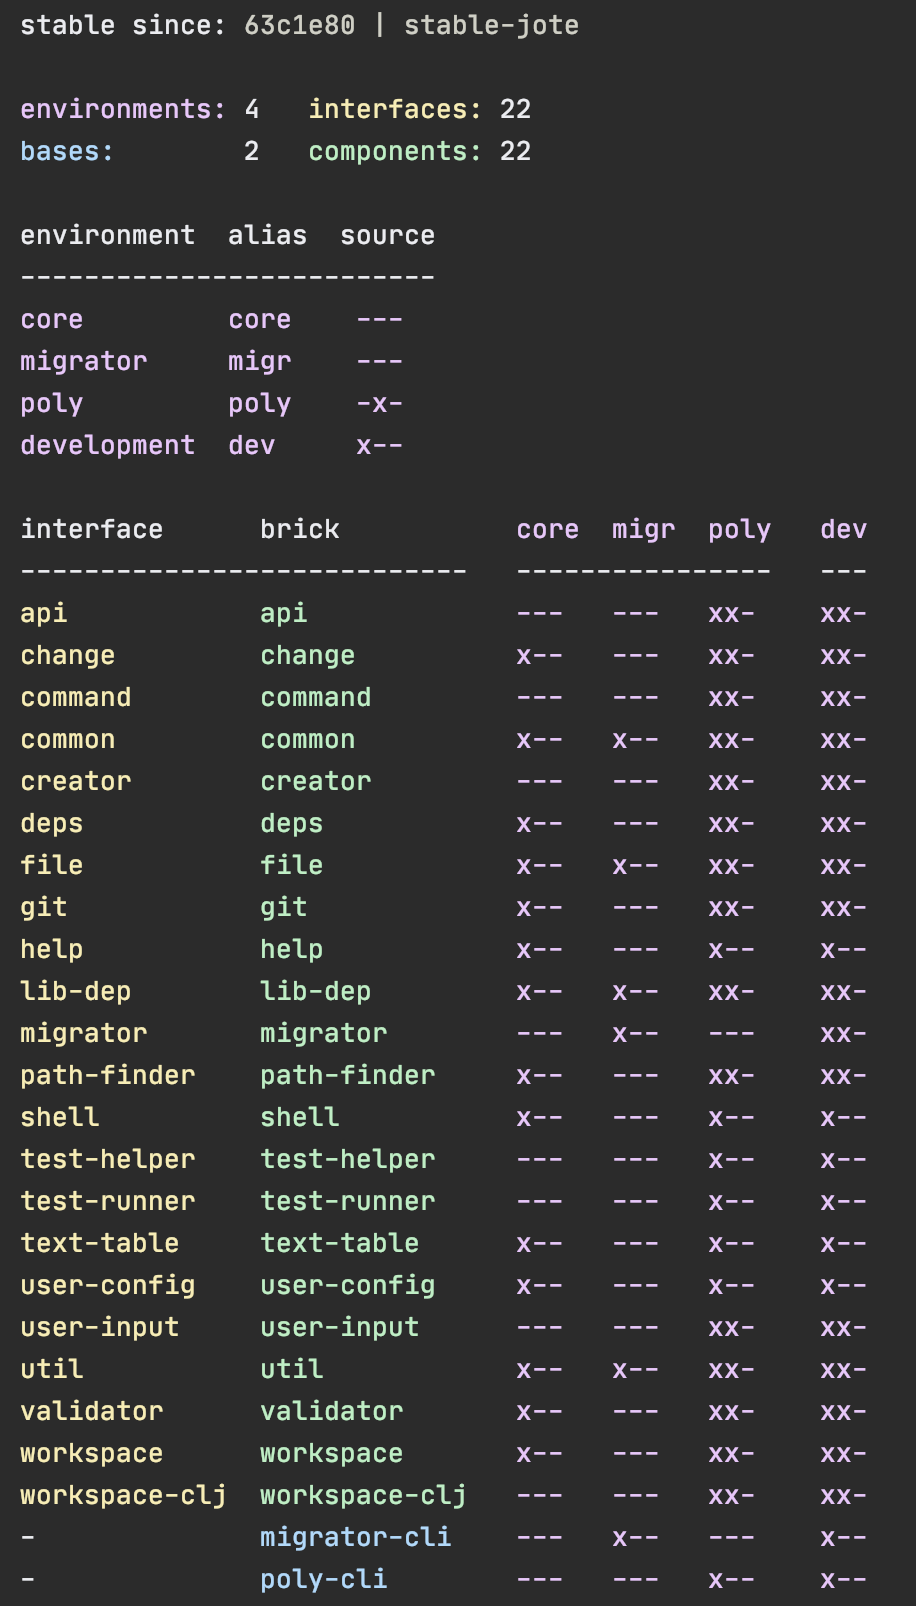
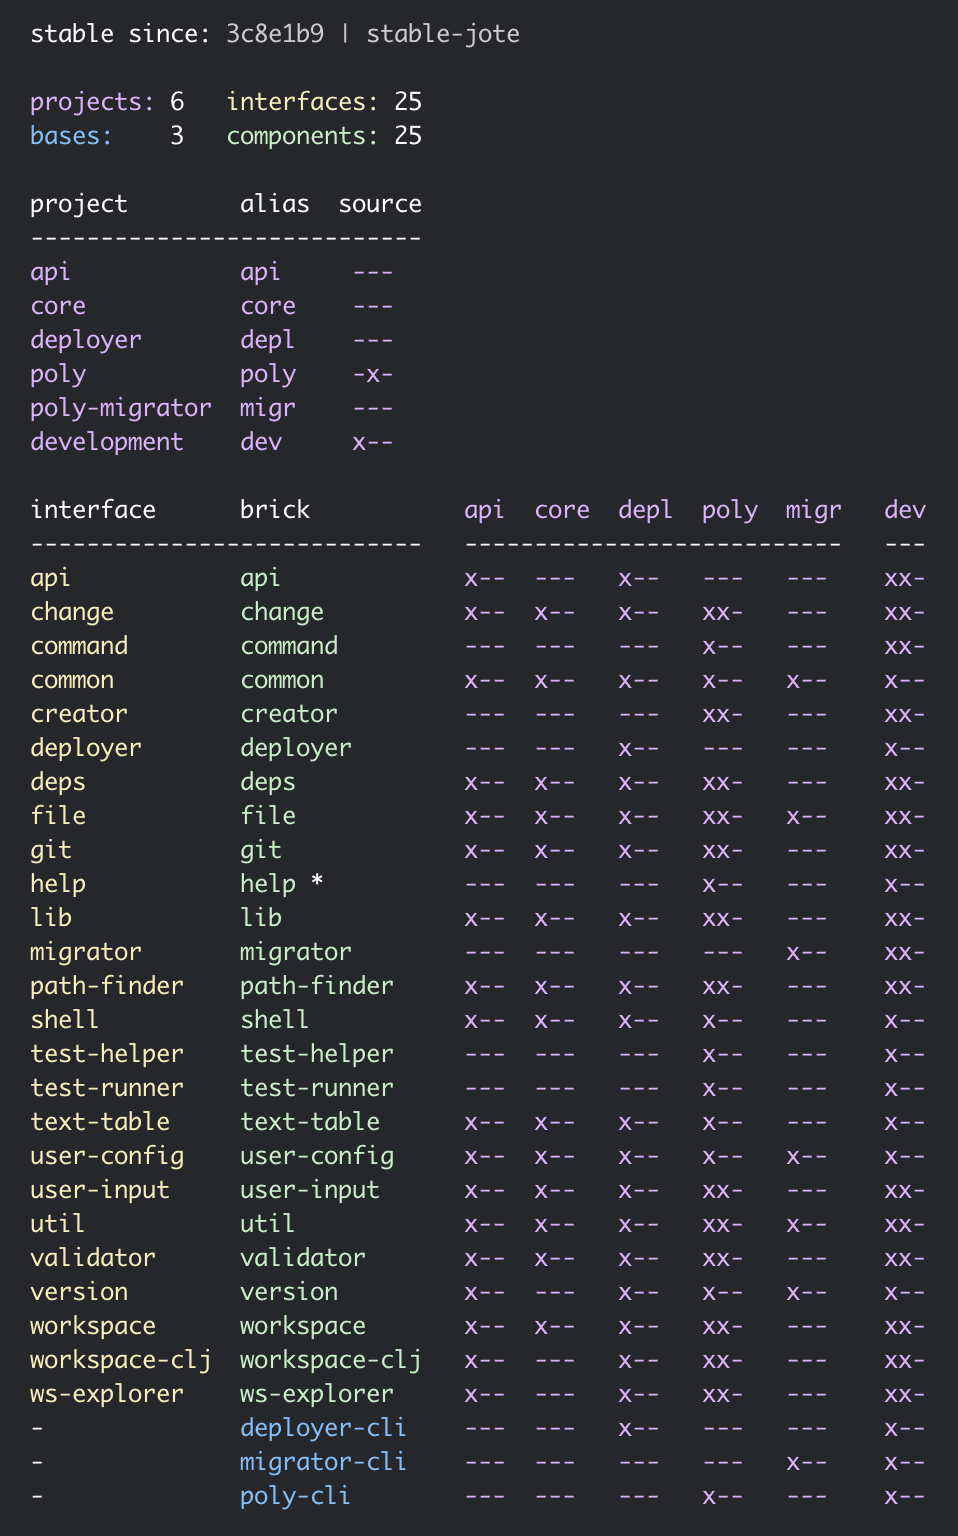
Switch from 'environment' to 'project'.

diff --git a/migrate/migrate.md b/migrate/migrate.md
@@ -1,47 +1,44 @@
 # <img src="../images/logo.png" width="50%" alt="Polylith" id="logo">
 
 If you are using the old Leiningen based tool, we recommend you to migrate to the 
-[new tool](https://github.com/tengstrand/polylith) that is based on 
-tools.deps by following the instructions further down here.
+[new tool](https://github.com/polyfy/polylith) that is based on [tools.deps](https://github.com/clojure/tools.deps.alpha) 
+by following the instructions further down here.
 
 Before we start, it may be interesting to get an idea of why you should migrate to the new tool:
 
-- The new tool is based on [tools.deps](https://github.com/clojure/tools.deps.alpha) which is both flexibility, powerful,
-  and is supported by the company that created  Clojure. Tools.deps is also a really good fit for the Lego like way of working with code in Polylith.
-- The symbolic links are gone, which means less complexity.
-- Microsoft Windows is supported out of the box.
+- The new tool is based on [tools.deps](https://github.com/clojure/tools.deps.alpha) which is flexibility, powerful,
+  and supported by Cognitect.
+  Tools.deps is also a really good fit for the Lego-like way of working with code in Polylith.
+- The symbolic links are gone, which means less complexity and that Emacs/CIDER and Windows now works out of the box.
+- A more streamlined naming. Systems, services and development environments are now all handled as _projects_.
 - You are less dependent on tool support. Operations such as moving, renaming and deleting
-  environments, components and bases can easily be done from your favourite editor/IDE and there is
+  projects, components and bases can easily be done from your favourite editor/IDE and there is
   no need for the `add`, `remove` and `delete` commands. 
-- The empty workspace interfaces are gone. They are instead implicitly declared by the components themselves
-  which is nicer to work with.
-- How you work with the code is greatly improved. Now you can work with the project from the workspace root
-  with access to all environments, components and bases, from one place, not just the development environment as before. 
-- Simplified nomenclature and workflows. Systems, services and environments are now all called _environments_.
-- Support for more than one environment where each environment can specify what `src`, `test` and `resources`
-  folders should be included. Environments can have different versions of the same library if needed.
+- The empty workspace interfaces are gone. The interfaces are instead implicitly declared by the components themselves
+  and the time is over when you needed to update them in two places.
+- The way you work with the code has greatly improved. Now you have access to all projects, components 
+  and bases, from the workspace root, not just from the development environment as before. 
+- Support for more than one project where each project specifies what components, bases, libraries,
+  resources and tests that are included.
 - Improved testing experience:
   - The compilation step of each component and base has been removed which substantially speeds up things,
-    especially if you have many components and bases. The component contracts (interfaces) are instead 
-    checked by the `check` command via a [git hook](https://git-scm.com/book/en/v2/Customizing-Git-Git-Hooks)
-    (optional).
+    especially if we have many components and bases. The component contracts (interfaces) are instead 
+    checked by the `check` command that can be called by a [git hook](https://git-scm.com/book/en/v2/Customizing-Git-Git-Hooks)
+    to ensure consistency of the workspace (optional).
   - The tests execute much faster by only starting the JVM once, and then run all the tests in isolation by separate class loaders.
-  - Environments can have their own `tests` (and even `src` and `resources` folder).
   - Output from the text execution is displayed continously.
-- The REPL experience has been improved. When working with a codebases that contains interfaces that are implemented by
-  more than one component (more common in larger systems) it's now possible to switch between 
-  configurations to immitate different environments, by the use of `profiles` which is a new concept.
+- Introduction of the `profile` concept that allow us to emulate different projects (services/systems) from the development environment.
 - No need for the `prompt` command. The new `poly` command is several times faster than the old
   Leiningen based plugin and starts in a second.
-- Improved workspace checks, error messages.
-- New diagrams showing component and library dependencies.
+- Powerful diagrams that views the project status, dependencies to interfaces and components, and what libraries that are included.
+- The new `ws` command that allows us to explore the internal structure of he workspace with support for 
+  export/import which allow us to shared how the workspace looks like without sending the code.
 
 Other differences:
 - Arguments are passed to commands by name, like `poly create w name:my-ws top-ns:com.mycompany`.
-- No support for empty top namespaces. The use of empty top namespaces is bad practice.
-- Before, we created a "system" that automatically created a base. Now, bases and environments
-  are created separately.
-- When you create a component or base, no example code is created, like the `add-two` functions.
+- No support for empty top namespaces. The use of empty top namespaces is bad practice anyway.
+- Before, we created a "system" that automatically created a base. Now, bases and projects are created separately.
+- When we create a component or base, no example code is created, like the `add-two` functions.
 - Type hints in functions are now part of the interface contract.
 - If a definition is defined as `defn` in one interface, it must be implemented
   as a function in all components for that interface (not mixing `defn` and `defmacro`)
@@ -51,14 +48,11 @@ Other differences:
   from which all changes are calculated.
   The main reason we changed this, was that timestamps in files
   weren't reliable, because they were reset when switching between branches in git.
-- The `build` command has been removed. Now you configure what to build in the `deps.edn` files
-  under each environment which are then used in combination with the `clj` command and build scripts.
-- The new `deps` command is heavily improved, except that it can't display function dependencies at the moment.
-- Libraries are specified per environment and not per componend or base. Which namespace is associated 
-  with which library can be specified, so that a diagram with all dependencies can be displayed
-  using the `deps` command.
+  Another good reason is that we can let our CI build set the latest stable point in time for us.
+- The `build` command has been removed. Now we configure what to build in the `deps.edn` files
+  for each project in combination with tools and scripts.
 - No `sync` command. Missing components or libraries will be shown as errors which needs to be manually added
-  to each environment's `deps.edn`. This is part of the philosophy of the new tool, to have less magic and more control!
+  to each project's `deps.edn`. This is part of the philosophy of the new tool, to have less magic and more control!
 
 Now, let's migrate a lein-polylith project.
 
@@ -68,11 +62,10 @@ Before we start, make sure you have these two tools installed:
 - [git](https://git-scm.com/book/en/v2/Getting-Started-Installing-Git)
 - [clj](https://clojure.org/guides/getting_started)
 
-The migration is performed by the new Polylith tool which we can download by cloning it:
+The migration is performed by the new Polylith tool which we can downloaded by cloning it:
 ```bash
-git clone git@github.com:tengstrand/polylith.git
+git clone git@github.com:polyfy/polylith.git
 cd polylith
-git checkout core
 ```
 
 To verify the installation, type:
@@ -80,7 +73,7 @@ To verify the installation, type:
 clj -A:poly info
 ```
 If everything went well, the workspace of the Polylith tool is shown:<br>
-<img src="polylith-info.png" width="40%" alt="Info command">
+<img src="polylith-info.png" width="50%" alt="Info command">
  
 
 Now it's time to migrate a project. 
@@ -88,8 +81,7 @@ Now it's time to migrate a project.
 > Note: Here we will use the realworld example app as an example, but you should preferable
 > use your own Leiningen based Polylith project to migrate.
 
-Let's clone the [realworld example app](https://github.com/furkan3ayraktar/clojure-polylith-realworld-example-app/tree/clojure-deps)
-from the same directory as the `polylith` project:
+Let's clone the [realworld example app](https://github.com/furkan3ayraktar/clojure-polylith-realworld-example-app/tree/master):
 ```bash
 cd ..
 git clone git@github.com:furkan3ayraktar/clojure-polylith-realworld-example-app.git
@@ -103,14 +95,14 @@ polylith
 Let's migrate the `clojure-polylith-realworld-example-app`:
 ```bash
 cd polylith
-clj -A:poly-migr ../clojure-polylith-realworld-example-app
+clj -A:migrator ../clojure-polylith-realworld-example-app
 ```
 
-The new migrated `clojure-polylith-realworld-example-app-01` directory was added:
+The new migrated `clojure-polylith-realworld-example-app-01` directory was created:
 ```bash
 clojure-polylith-realworld-example-app
 clojure-polylith-realworld-example-app-01
-poly
+polylith
 ```
 
 > Note: The old project is left untouched, and you can run this migration step as many times as you want.
@@ -121,17 +113,13 @@ Let's verify the migration:
 cd clojure-polylith-realworld-example-app-01
 clj -A:poly deps
 ```
-<img src="realworld-deps.png" width="30%" alt="Deps command">
+<img src="realworld-deps.png" width="27%" alt="Deps command">
 
-We could also check the library dependencies:
+We can also check the library dependencies:
 ```bash
-clj -A:poly deps :lib
+clj -A:poly libs
 ```
-<img src="realworld-deps-lib.png" width="60%" alt="Deps lib command">
-
-You have probably noticed that a lot of the x's are missing and the reason is that we have to
-manually update the  `:ns->lib` key in the `:polylith` section in `deps.edn` and tell
-which namespace belongs to which library.
+<img src="realworld-deps-lib.png" width="55%" alt="Deps lib command">
 
 # Replace the old workspace
 
@@ -144,14 +132,11 @@ we want to do two things:
 
 The migrated project is not initialized with git yet, which is mandatory to get all the functionality
 that relies on change management to work, like running tests or to show the * symbol for changed
-components/bases/environments in the `info` command. Before we do that, you can play around with the 
+components/bases/projects in the `info` command. Before we do that, you can play around with the 
 migrated workspace and run all the commands except the `test` command which will not work.
 
 The _poly_ command can either be executed from the `polylith` directory with `clj -A:poly` plus argument(s), or
-by installing the `poly` tool and use that.
-
-You can read about how to properly install and use the new Polylith tool
-[here](https://github.com/tengstrand/polylith).
+by [installing](https://github.com/polyfy/polylith#installation) the `poly` tool and use that.
 
 ## Use the new workspace
 
@@ -166,17 +151,20 @@ so if you want to keep the history of your changes, we recommend you to go for o
 ### 1. Use the same repository as the old workspace
 
 If you go for this option, we recommend you to create a git branch, like `polylith-deps` or similar,
-and work from there.
-
-> Note: More documentation and examples on how to configure your CI build will come soon
+and work from there, and merge it back when everything works.
 
 As we mentioned before, the new tool doesn't contain any `build` command. Instead it's up to you to
 decide how to use [tools.deps](https://github.com/clojure/tools.deps.alpha), 
 scripts and maybe other tooling, to build the artifacts you need.
 
+To proceede from here, you can either learn the new tool and do the migration yourself, because it will
+be quite obvious what you should keep and what can be deleted, or you can continue with the detailed instruction below,
+with the risk that you don't know what you are doing! As long as you work in a new branch, you should be 
+safe in either cases.
+
 Make sure you work from the newly created branch, e.g. `polylith-deps`.
-With `old` we refere to the Leiningen based `clojure-polylith-realworld-example-app` workspace,
-and with `new` we refere to the migrated `clojure-polylith-realworld-example-app-01` workspace:
+With `old` we refere to the Leiningen based `clojure-polylith-realworld-example-app` workspace (think your Leiningen based workspace),
+and with `new` we refere to the migrated `clojure-polylith-realworld-example-app-01` workspace (think your migrated workspace):
 - Delete the `project.clj` file from the root in the old workspace.
 - Delete the `interfaces` directory from the old workspace.
 - Copy `deps.edn` from the root of the new workspace to the old.
@@ -184,30 +172,29 @@ and with `new` we refere to the migrated `clojure-polylith-realworld-example-app
   information/links from the new `readme.md`.
 - Make sure you can build all the artifacts you need, by adding aliases to `deps.edn`,
   creating build scripts and similar.
-  If you used the old `build.sh` under each `system` then they need to be replaced.
+  If you used the old `build.sh` under each `system` then they need to be replaced with something that involves `tool.deps`.
   You also may have a `.circleci/config.yaml` at the root, and maybe scripts, that also needs to be replaced
   or updated.
-- Rename the old `environments` directory to `old-environments`.
-- Copy the new `environments` to the old workspace.
-- Go through all `deps.edn` files (the one at the root and the ones in each directory under `environments`)
+- Copy the `projects` directory from the new workspace to the old workspace.
+- Go through all `deps.edn` files (the one at the root and the ones in each directory under `projects`)
   and check that keywords like `:exclusions` in the library dependencies have been correctly migrated,
-  compared to what's in each `project.clj` in `old-environments` and the systems under the `systems` directories.
-- Delete the `old-environments` directory.
+  compared to what's in each `project.clj` in `environments` and the projects under the `systems` directories.
+- Delete the `environments` directory.
 - Delete the `systems` directory.
 - The new tool only uses the `src`, `test` and `resources` directories under each component
   and base and if you have other files there, they can be deleted (you may want to keep the `readme.md` files).
-- If you have any components or bases that is not included in any other environment than
-  `development`, then this code can be moved to the new `development` directory 
-  that is a dedicated for this use:
-  - Create a top namespace under `development/src`, e.g. `dev`.
-  - If you have any test code that you also want to move, create the `development/test` directory
-    and add the path to the root `deps.edn`. Also create a test namespace, e.g. `dev-test`.
-  - Delete `development/src/.keep` (it was only there to stop git from removing the directory).
-  - Create and organize the namespaces under `dev` (and eventually `dev-test`) in any way you like 
-    (e.g. one per developer).
-  - Copy the code from those components and bases to the newly created namespaces.
+- If you have any components or bases that are not included in any other project than the
+  `development` project, with the only purpose to be used as some kind of tooling, 
+  then this code should be moved to the new `development` directory that is a dedicated for this use:
+  - Create a top namespace under `development/src`, e.g. `dev` and maybe some sub namespaces.
+  - Copy the code from the components we want to move to the `dev` namespace or to any sub namespace of `dev`
+    in `development`.
   - Delete these components and bases.
-
+  - If you have any test code that you also want to move, create the `development/test` directory
+    and add the "development/test" path to the `:test` alias in `./deps.edn`. Also create the same namespace(s) 
+    as for `development/src`, e.g. `development/test/dev`.
+  - Delete `.keep` files for directories that are not empty.
+  
 ### 2. Create a new repository
 
 If you go for this option, you can follow the above instructions about how to verify the workspace

diff --git a/readme.md b/readme.md
@@ -6,7 +6,7 @@ A leiningen plugin used to develop Polylith based architectures.
 ------------
 > **_NOTE:_**<br>
 > This Leiningen based tool has reached its end of lifetime.<br>
-> The new tools.deps based version can be found [here](https://github.com/tengstrand/polylith).<br>
+> The new tools.deps based version can be found [here](https://github.com/polyfy/polylith).<br>
 > Instructions on how to migrate old Leiningen based projects can be found [here](migrate/migrate.md).<br>
 ------------
 
